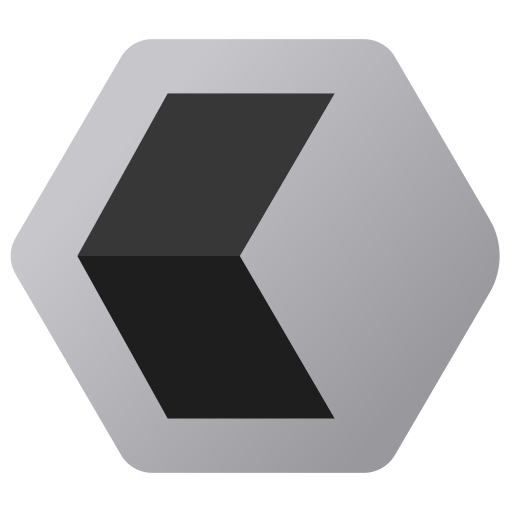
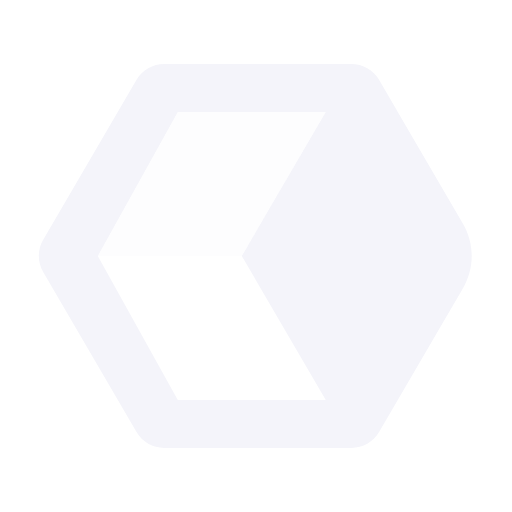
Brand assets one near-white colour; Kündigen drops olive for the site roles
Favicon, app icon and the square icon are a dark tile with the near-white
mark; the transparent icon, mono icon and logo are near-white, ink on light
backgrounds. Kündigen colours only: links and highlight take the accent, the
confirmation boxes the success green. Its copy and flow are unchanged.

diff --git a/app/kuendigen/page.tsx b/app/kuendigen/page.tsx
@@ -29,7 +29,7 @@ const TURNSTILE_SITE_KEY = process.env.NEXT_PUBLIC_TURNSTILE_SITE_KEY
 type Status = 'idle' | 'submitting'
 
 const inputCls =
-  'w-full rounded-lg border border-sand-300 bg-sand-50 px-3 py-2 text-sm text-sand-900 placeholder:text-sand-400 focus:border-olive-500 focus:outline-none dark:border-sand-800 dark:bg-sand-900 dark:text-sand-50'
+  'w-full rounded-lg border border-sand-300 bg-sand-50 px-3 py-2 text-sm text-sand-900 placeholder:text-sand-400 focus:border-sand-500 focus:outline-none dark:border-sand-800 dark:bg-sand-900 dark:text-sand-50'
 const labelCls = 'block text-sm font-semibold text-sand-900 dark:text-sand-50'
 const helpCls = 'mt-1 text-xs text-sand-600 dark:text-sand-500'
 
@@ -109,7 +109,7 @@ function KuendigenForm() {
     <div className="min-h-full bg-sand-50 dark:bg-sand-950">
       <header className="sticky top-0 z-50 hidden h-14 grid-cols-[1fr_auto_1fr] items-center gap-4 border-b border-sand-200 dark:border-sand-800 bg-sand-50 dark:bg-sand-950 px-6 md:grid">
         <div />
-        <Link href="/kuendigen" className="text-sm font-semibold text-olive-600 dark:text-olive-500 transition-colors hover:text-olive-800 dark:hover:text-olive-400">
+        <Link href="/kuendigen" className="text-sm font-semibold text-accent underline-offset-4 transition-colors hover:underline">
           /Kündigen
         </Link>
         <div className="flex items-center justify-end">
@@ -119,7 +119,7 @@ function KuendigenForm() {
 
       <main className="relative mx-auto max-w-2xl px-4 pt-6 pb-8 sm:px-6 sm:pt-12">
         <p className="mb-6 text-sm font-semibold md:hidden">
-          <span className="text-olive-600 dark:text-olive-500">/Kündigen</span>
+          <span className="text-accent">/Kündigen</span>
         </p>
 
         <h1 className="text-3xl font-extrabold tracking-tight text-sand-900 dark:text-sand-50 sm:text-4xl">Verträge kündigen</h1>
@@ -127,7 +127,7 @@ function KuendigenForm() {
           Kündige hier deine AI Canvas Premium-Mitgliedschaft. Kein Login nötig.{' '}
           <span className="text-sand-600 dark:text-sand-500">
             Cancel your AI Canvas Premium subscription here. No login required. You can also{' '}
-            <Link href="/account/settings" className="text-olive-600 dark:text-olive-400 hover:underline">
+            <Link href="/account/settings" className="text-accent underline underline-offset-2">
               sign in
             </Link>{' '}
             and cancel from your account.
@@ -136,8 +136,8 @@ function KuendigenForm() {
 
         {/* Post-confirm banners (from the email link) */}
         {state === 'confirmed' && (
-          <div className="mt-6 flex items-start gap-2 rounded-lg border border-olive-500/30 bg-olive-500/10 p-4">
-            <CircleCheck size={18} className="mt-0.5 shrink-0 text-olive-600 dark:text-olive-400" />
+          <div className="mt-6 flex items-start gap-2 rounded-lg border border-success/30 bg-success/10 p-4">
+            <CircleCheck size={18} className="mt-0.5 shrink-0 text-success" />
             <p className="text-sm text-sand-700 dark:text-sand-200">
               Deine Kündigung ist bestätigt. Du behältst Premium bis zum Ende deines Abrechnungszeitraums. /
               Your cancellation is confirmed. You keep Premium until the end of your billing period.
@@ -145,8 +145,8 @@ function KuendigenForm() {
           </div>
         )}
         {state === 'already' && (
-          <div className="mt-6 flex items-start gap-2 rounded-lg border border-olive-500/30 bg-olive-500/10 p-4">
-            <CircleCheck size={18} className="mt-0.5 shrink-0 text-olive-600 dark:text-olive-400" />
+          <div className="mt-6 flex items-start gap-2 rounded-lg border border-success/30 bg-success/10 p-4">
+            <CircleCheck size={18} className="mt-0.5 shrink-0 text-success" />
             <p className="text-sm text-sand-700 dark:text-sand-200">
               Dein Abo ist bereits zur Kündigung vorgemerkt und endet zum Ende deines Abrechnungszeitraums. Du musst
               nichts weiter tun. / Your subscription is already scheduled to cancel and ends at the end of your
@@ -168,7 +168,7 @@ function KuendigenForm() {
             <CircleAlert size={18} className="mt-0.5 shrink-0 text-sand-600 dark:text-sand-400" />
             <p className="text-sm text-sand-700 dark:text-sand-300">
               Wir konnten die Kündigung gerade nicht abschließen. Bitte schreib uns an{' '}
-              <a href={`mailto:${CONTACT_EMAIL}`} className="text-olive-600 dark:text-olive-400 hover:underline">
+              <a href={`mailto:${CONTACT_EMAIL}`} className="text-accent underline underline-offset-2">
                 {CONTACT_EMAIL}
               </a>
               . / We couldn&apos;t complete the cancellation just now. Please email us.
@@ -178,7 +178,7 @@ function KuendigenForm() {
 
         {state === 'submitted' ? (
           <div className="mt-8 rounded-2xl border border-sand-200 dark:border-sand-800 bg-sand-100 dark:bg-sand-900 p-6">
-            <CircleCheck size={24} className="text-olive-600 dark:text-olive-400" />
+            <CircleCheck size={24} className="text-success" />
             <h2 className="mt-3 text-lg font-bold text-sand-900 dark:text-sand-50">Anfrage erhalten / Request received</h2>
             <p className="mt-2 leading-relaxed text-sand-600 dark:text-sand-400">
               Falls für diese Adresse ein aktives Premium-Abo besteht, haben wir dir eine E-Mail mit einem
@@ -204,7 +204,7 @@ function KuendigenForm() {
                     name="kind"
                     checked={kind === 'ordentlich'}
                     onChange={() => setKind('ordentlich')}
-                    className="accent-olive-500"
+                    className="accent-accent"
                   />
                   Ordentlich / Ordinary
                 </label>
@@ -214,7 +214,7 @@ function KuendigenForm() {
                     name="kind"
                     checked={kind === 'ausserordentlich'}
                     onChange={() => setKind('ausserordentlich')}
-                    className="accent-olive-500"
+                    className="accent-accent"
                   />
                   Außerordentlich / Extraordinary
                 </label>

diff --git a/app/globals.css b/app/globals.css
@@ -194,8 +194,8 @@ html {
   --color-premium: var(--premium);
   --color-ai: var(--ai);
 
-  /* ── Olive — the former site accent. Site chrome no longer uses it; kept
-     for the cancellation flow (frozen as shipped) and the studio tools. ── */
+  /* ── Olive — the former site accent. No site page uses it; kept for the
+     studio tools and the internal palette page. ── */
   --color-olive-400: #DAE4A0;
   --color-olive-500: #A8B94D;
   --color-olive-600: #869631;
